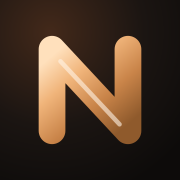
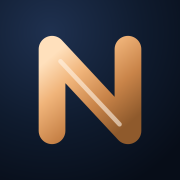
Switch palette to midnight navy + cool steel with copper accent
Makes the site visually distinct from glorax.in (warm beige/brown-black):
- bg #F3F5F8, ink #0D1726, body #3B4657, muted #5C6878, line #DDE3EB
- dark sections/footer #0A1322 / #111D31, navy-tinted shadows
- favicon, logo mark, OG images, theme colour and manifest updated to match
- all text/background pairs re-checked for WCAG AA

diff --git a/src/app/globals.css b/src/app/globals.css
@@ -4,22 +4,22 @@
    Design tokens (see CLAUDE.md / docs/DECISIONS.md)
    ------------------------------------------------------------------ */
 @theme {
-  --color-bg: #f4f1ec;
+  --color-bg: #f3f5f8;
   --color-surface: #ffffff;
-  --color-ink: #161412;
-  --color-body: #4a4642;
-  /* Darkened from #7A746D so it passes AA (4.5:1) on --color-bg too. */
-  --color-muted: #6e6862;
-  --color-line: #e7e1d8;
+  --color-ink: #0d1726;
+  --color-body: #3b4657;
+  /* Passes AA (≥4.5:1) on both --color-bg and white. */
+  --color-muted: #5c6878;
+  --color-line: #dde3eb;
   --color-copper: #b5763f;
   --color-copper-dark: #8f5a2c;
   /* Deepest copper — button hover (7.4:1 with white). */
   --color-copper-deep: #7a4a22;
   --color-copper-light: #e0a36a;
-  --color-copper-soft: #f2e4d6;
-  --color-night: #121110;
-  --color-night-2: #1c1a18;
-  --color-night-line: #2e2a26;
+  --color-copper-soft: #f7e9dc;
+  --color-night: #0a1322;
+  --color-night-2: #111d31;
+  --color-night-line: #22314a;
 
   --font-sans: var(--font-dm-sans), ui-sans-serif, system-ui, sans-serif;
   --font-display: var(--font-bebas), "Oswald", "Arial Narrow", sans-serif;
@@ -27,8 +27,8 @@
   --radius-card: 14px;
   --radius-btn: 10px;
 
-  --shadow-soft: 0 10px 30px -12px rgb(0 0 0 / 0.15);
-  --shadow-lift: 0 22px 40px -18px rgb(0 0 0 / 0.25);
+  --shadow-soft: 0 10px 30px -12px rgb(10 19 34 / 0.18);
+  --shadow-lift: 0 22px 40px -18px rgb(10 19 34 / 0.3);
 
   --animate-kenburns: kenburns 24s ease-in-out infinite alternate;
   --animate-rise: rise 0.8s cubic-bezier(0.22, 1, 0.36, 1) both;

diff --git a/src/components/ui/logo.tsx b/src/components/ui/logo.tsx
@@ -9,9 +9,9 @@ export function LogoMark({ className }: { className?: string }) {
     <svg viewBox="0 0 64 64" aria-hidden className={cn("size-9", className)}>
       <defs>
         <radialGradient id="nx-bg" cx="28%" cy="18%" r="95%">
-          <stop offset="0" stopColor="#43291a" />
-          <stop offset="0.55" stopColor="#1b1512" />
-          <stop offset="1" stopColor="#0d0b0a" />
+          <stop offset="0" stopColor="#1f3150" />
+          <stop offset="0.55" stopColor="#0f1b2e" />
+          <stop offset="1" stopColor="#070d18" />
         </radialGradient>
         <linearGradient id="nx-cu" x1="0.1" y1="0" x2="0.9" y2="1">
           <stop offset="0" stopColor="#FFE0BC" />

diff --git a/src/lib/actions/enquiry.ts b/src/lib/actions/enquiry.ts
@@ -43,7 +43,7 @@ function formatEnquiry(data: EnquiryInput) {
   const html = `<h2 style="font-family:sans-serif">New website enquiry</h2><table style="font-family:sans-serif;border-collapse:collapse">${filled
     .map(
       ([k, v]) =>
-        `<tr><td style="padding:6px 12px 6px 0;color:#6e6862;vertical-align:top">${k}</td><td style="padding:6px 0;white-space:pre-wrap">${escapeHtml(v!)}</td></tr>`,
+        `<tr><td style="padding:6px 12px 6px 0;color:#5c6878;vertical-align:top">${k}</td><td style="padding:6px 0;white-space:pre-wrap">${escapeHtml(v!)}</td></tr>`,
     )
     .join("")}</table>`;
   return { productName, text, html };

diff --git a/src/app/manifest.ts b/src/app/manifest.ts
@@ -9,8 +9,8 @@ export default function manifest(): MetadataRoute.Manifest {
     description: siteConfig.description,
     start_url: "/",
     display: "standalone",
-    background_color: "#f4f1ec",
-    theme_color: "#121110",
+    background_color: "#f3f5f8",
+    theme_color: "#0a1322",
     icons: [
       { src: "/icon.svg", sizes: "any", type: "image/svg+xml" },
       { src: "/icons/icon-192.png", sizes: "192x192", type: "image/png" },

diff --git a/src/lib/og.tsx b/src/lib/og.tsx
@@ -32,7 +32,7 @@ export function renderOgImage({
         flexDirection: "column",
         justifyContent: "space-between",
         padding: "64px 72px",
-        background: "radial-gradient(circle at 85% 10%, #4a2d16 0%, #121110 55%)",
+        background: "radial-gradient(circle at 85% 10%, #4a3020 0%, #13213a 30%, #0a1322 60%)",
         color: "#ffffff",
         fontFamily: "sans-serif",
       }}

diff --git a/src/app/layout.tsx b/src/app/layout.tsx
@@ -56,7 +56,7 @@ export const metadata: Metadata = {
 };
 
 export const viewport: Viewport = {
-  themeColor: "#121110",
+  themeColor: "#0a1322",
 };
 
 const gaId = process.env.NEXT_PUBLIC_GA_ID;

diff --git a/CLAUDE.md b/CLAUDE.md
@@ -18,19 +18,21 @@ Marketing site for **NexMetal Recycling Private Limited** (B2B copper scrap supp
 
 ## Design tokens
 
+Palette: midnight navy + cool steel neutrals with a copper accent (changed from the brief's warm beige/brown-black on 2026-10-04 so the site looks distinct from glorax.in). `src/app/globals.css` is the source of truth.
+
 | Token                 | Value     | Use                   |
 | --------------------- | --------- | --------------------- |
-| `--color-bg`          | `#F4F1EC` | page background       |
+| `--color-bg`          | `#F3F5F8` | page background       |
 | `--color-surface`     | `#FFFFFF` | cards                 |
-| `--color-ink`         | `#161412` | headings              |
-| `--color-body`        | `#4A4642` | body text             |
-| `--color-muted`       | `#7A746D` | secondary text        |
-| `--color-line`        | `#E7E1D8` | borders/dividers      |
+| `--color-ink`         | `#0D1726` | headings              |
+| `--color-body`        | `#3B4657` | body text             |
+| `--color-muted`       | `#5C6878` | secondary text        |
+| `--color-line`        | `#DDE3EB` | borders/dividers      |
 | `--color-copper`      | `#B5763F` | accent / buttons      |
 | `--color-copper-dark` | `#8F5A2C` | hover, chip text      |
-| `--color-copper-soft` | `#F2E4D6` | chip bg               |
-| `--color-night`       | `#121110` | dark sections, footer |
-| `--color-night-2`     | `#1C1A18` | dark surfaces         |
+| `--color-copper-soft` | `#F7E9DC` | chip bg               |
+| `--color-night`       | `#0A1322` | dark sections, footer |
+| `--color-night-2`     | `#111D31` | dark surfaces         |
 
 - Copper gradient: `linear-gradient(135deg, #E0A36A 0%, #B5763F 45%, #7A4A22 100%)`
 - Radius: 14px cards, 10px buttons, 999px pills. Shadow: `0 10px 30px -12px rgb(0 0 0 / .15)`

diff --git a/docs/DECISIONS.md b/docs/DECISIONS.md
@@ -13,6 +13,8 @@ Answers from the owner after the brief (2026-10-04). Reference screenshots: [ref
 - Inner pages: dark page-title band, so the header still reads well where there's no hero.
 - Privacy policy and terms: Claude drafts these (Indian B2B context), marked "for legal review".
 
+- Palette: switched from the brief's warm off-white/brown-black to midnight navy (`#0A1322`) and cool steel neutrals (`#F3F5F8` background), keeping copper as the accent, so the site is visually distinct from glorax.in. Every text/background pair is checked for WCAG AA.
+
 ## Product catalogue (owner-supplied, confirmed correct)
 
 | #   | Name                    | Description                                                                                                                         | Specs                                                                                                                                                                                                                           |
